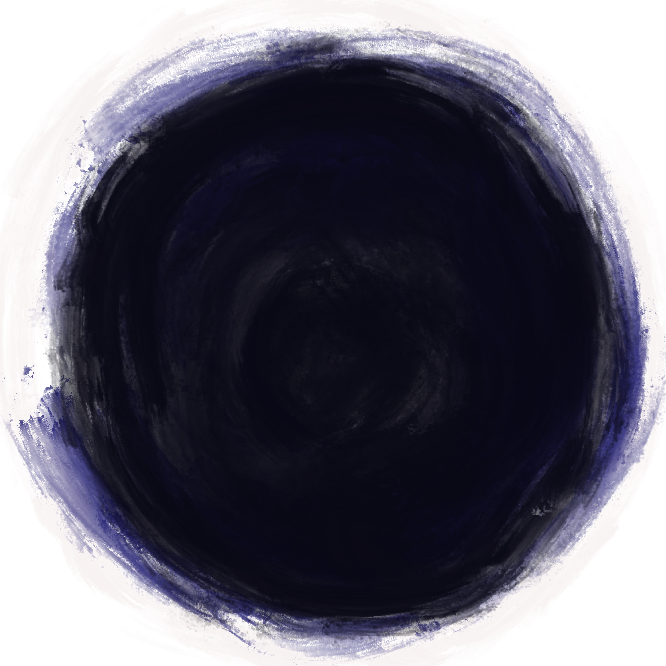
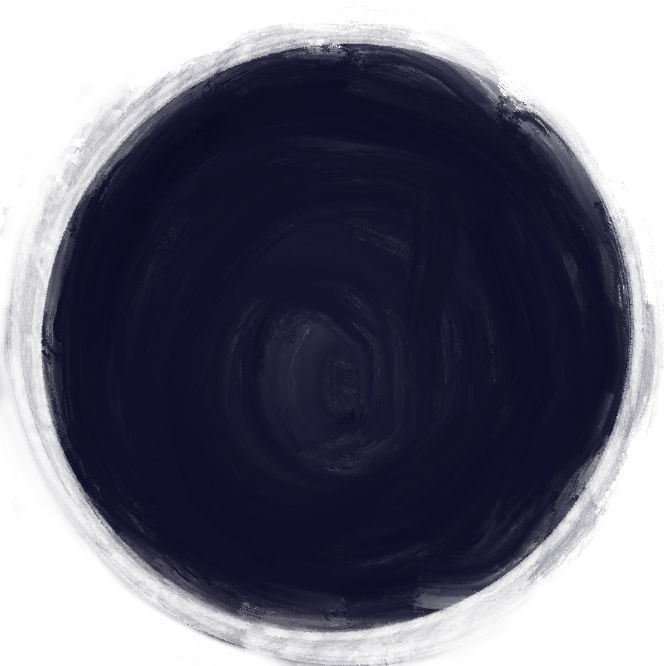
Add files via upload

diff --git a/sketch.js b/sketch.js
@@ -11,10 +11,10 @@ let colorCentro;
 let centroX, centroY;
 const umbralGlitch = 10;
 const tamanoGradiente = 150;
-const cantidadCirculos = 6;
+const cantidadCirculos = 16;
 let margen;
-const tamanoInicial = 400;
-const tamanoFinal = 100;
+const tamanoInicial = 510;
+const tamanoFinal = 10;
 let tamanoCirculo;
 let tamanoImagenCentro;
 const tamanoImagenCentroInicial = 200; // Tamaño inicial del círculo central de imágenes
@@ -95,28 +95,28 @@ function draw() {
   push();
   translate(centroX, centroY);
   rotate(radians(angulo));
-
   for (let i = 0; i < cantidadCirculos; i++) {
     tamanoCirculo = tamanoInicial - i * margen;
     const colorRelleno = map(i, 0, cantidadCirculos - 1, 0, 255);
-
+  
     push();
     rotate(radians(-angulo * (i + 1)));
-
+  
     const escala = tamanoCirculo / tamanoInicial;
-
+  
     imageMode(CENTER);
     colorMode(RGB);
     tint(red(colorCirculo), green(colorCirculo), blue(colorCirculo));
-    image(imagen, 0, 0, imagen.width * escala, imagen.height * escala);
+    image(imagen, 0, 0, imagen.width * escala+30, imagen.height * escala+30);
     noTint();
-
+  
     pop();
-
+  
     noStroke();
     fill(lerpColor(colorCirculo, color(0), colorRelleno / 255));
     ellipse(0, 0, tamanoCirculo, tamanoCirculo);
   }
+  
 
   pop();
 
